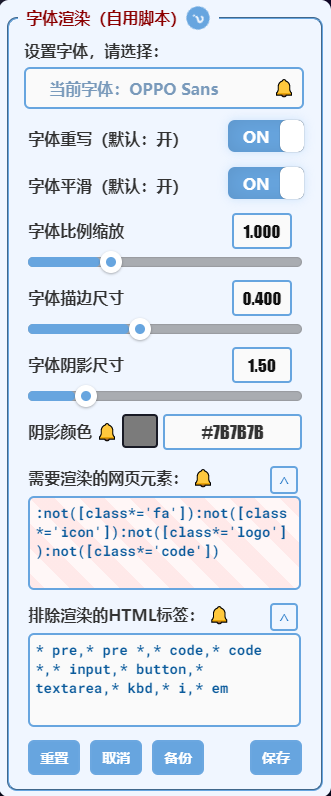
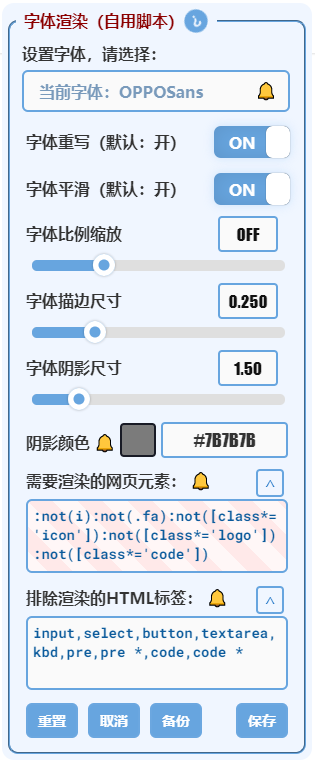
update

diff --git a/Font Rendering.user.js b/Font Rendering.user.js
@@ -5,7 +5,7 @@
 // @name:zh-TW        字體渲染（自用腳本）
 // @name:ja           フォントレンダリング（カスタマイズ）
 // @name:en           Font Rendering (Customized)
-// @version           2021.10.31.1
+// @version           2021.10.31.2
 // @author            F9y4ng
 // @description       无需安装MacType，优化浏览器字体显示，让每个页面的中文字体变得有质感，默认使用微软雅黑字体，亦可自定义设置多种中文字体，附加字体描边、字体重写、字体阴影、字体平滑、对特殊样式元素的过滤和许可等效果，脚本菜单中可使用设置界面进行参数设置，亦可对某域名下所有页面进行排除渲染，兼容常用的Greasemonkey脚本和浏览器插件。
 // @description:zh    无需安装MacType，优化浏览器字体显示，让每个页面的中文字体变得有质感，默认使用微软雅黑字体，亦可自定义设置多种中文字体，附加字体描边、字体重写、字体阴影、字体平滑、对特殊样式元素的过滤和许可等效果，脚本菜单中可使用设置界面进行参数设置，亦可对某域名下所有页面进行排除渲染，兼容常用的Greasemonkey脚本和浏览器插件。
@@ -2054,9 +2054,9 @@
           isFontsize ? "ON " : "OFF",
           isFontsize
             ? CONST.fontSize === 1
-              ? "\uff08\u7f29\u653e\u6bd4\u4f8b\uff1a\u7f51\u7ad9\u5b9a\u4e49\uff09"
-              : `\uff08\u7f29\u653e\u6bd4\u4f8b\uff1a${Number(CONST.fontSize * 100).toFixed(2) + "%"}\uff09`
-            : "\uff08\u7f29\u653e\u6bd4\u4f8b\uff1a\u6d4f\u89c8\u5668\u5b9a\u4e49\uff09",
+              ? "\u3000\u259a\u0020\u7f29\u653e\u6bd4\u4f8b\uff1a(WEBSITE DEFINED)"
+              : `\u3000\u259a\u0020\u7f29\u653e\u6bd4\u4f8b\uff1a${Number(CONST.fontSize * 100).toFixed(2) + "%"}`
+            : "\u3000\u259a\u0020\u7f29\u653e\u6bd4\u4f8b\uff1a(SYSTEM DEFINED)",
           isBackupFunction ? "ON " : "OFF",
           isPreview ? "ON " : "OFF",
           "line-height:180%;font-size:12px;color:teal",

diff --git a/Font Rendering.meta.js b/Font Rendering.meta.js
@@ -1,5 +1,5 @@
 // ==UserScript==
-// @version     2021.10.31.1
+// @version     2021.10.31.2
 // @author      F9y4ng
 // @name        字体渲染（自用脚本）
 // @name:zh     字体渲染（自用脚本）

diff --git a/README.md b/README.md
@@ -9,7 +9,7 @@
 
 简介：无需安装MacType，优化浏览器字体显示，让每个页面的中文字体变得有质感，默认使用微软雅黑字体，亦可自定义设置多种中文字体，附加字体描边、字体重写、字体阴影、字体平滑、对特殊样式元素的过滤和许可等效果，脚本菜单中可使用设置界面进行参数设置，亦可对某域名下所有页面进行排除渲染，兼容常用的 Greasemonkey 脚本和浏览器插件。
 
-> `version 2021.10.31.1`
+> `version 2021.10.31.2`
 
 `!!! 重大版本更新，请使用前仔细查看 !!!` 【[**脚本使用说明**](https://github.com/F9y4ng/GreasyFork-Scripts/wiki/Font_Rendering)】`New`
 
